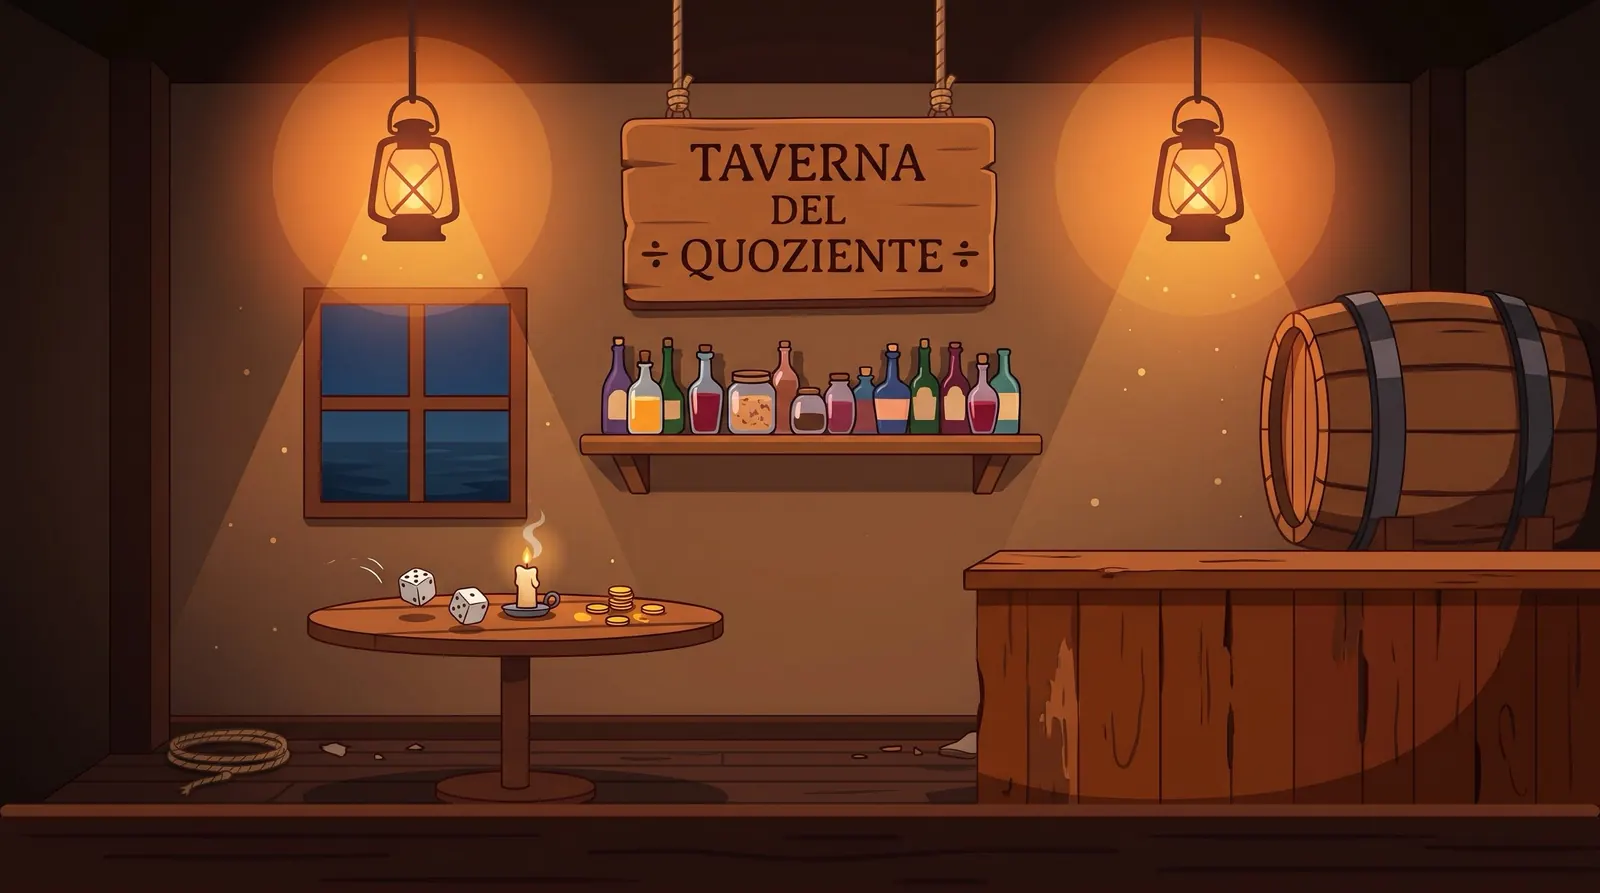
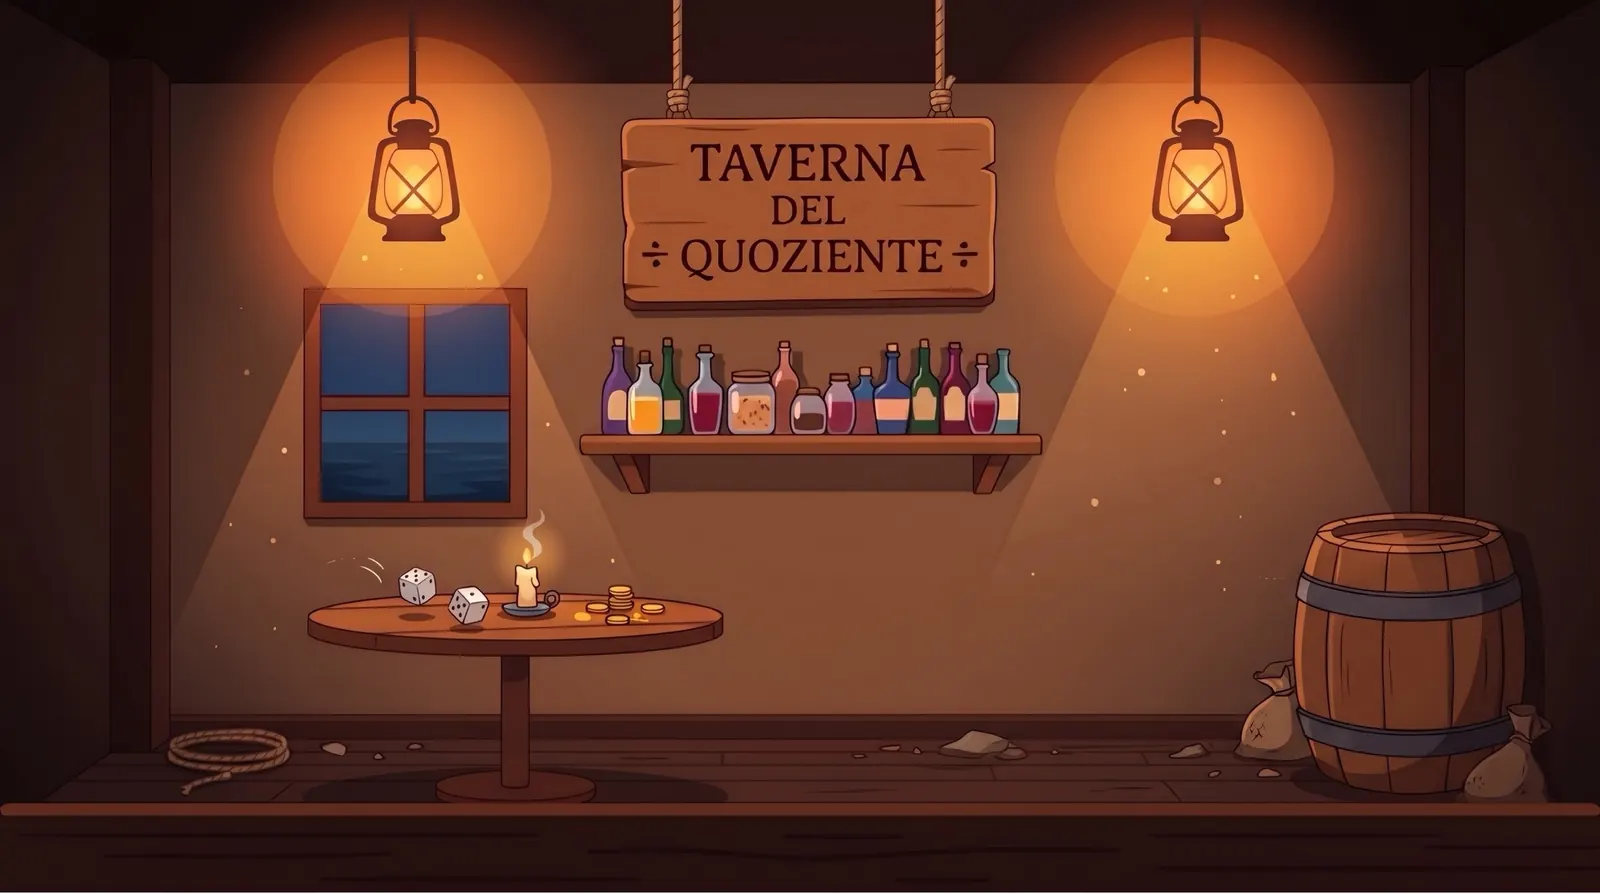
New tavern images; Vera and Barnaba stand on the ground
The street shows the open-door image once the key is used, and the
hall uses the new image without the counter, with the Oste, twins,
kegs and diary page placed on the open floor. Vera and Barnaba images
had leftover floor shadow under the feet, so they seemed to float;
the cut-out tool now crops at the last solid row.

Claude-Session: https://claude.ai/code/session_018EhJPoJraYHsQQnM3m2GZU

diff --git a/js/rooms2.js b/js/rooms2.js
@@ -213,15 +213,12 @@ function readQuestBoard() {
               removeItem('i1');
               setFlag('taverna_open');
               playSound('success');
+              // Sfondo con la porta aperta.
+              if ($('layer-bg')) $('layer-bg').innerHTML = SCENES.strada.bg();
               refreshLabels(A);
               ariaSays(['Clack! La chiave di Barnaba funziona. Si entra!', 'La chiave gira. Taverna, sto arrivando!']);
             }
           }
-        },
-        {
-          id: 'porta-aperta', box: [0, 0, 0, 0], noDot: true,
-          visible: () => flag('taverna_open'),
-          draw: () => `<rect x="143" y="88" width="40" height="84" fill="#ffcf5a" opacity="0.85"/><path d="M143 88 L133 92 L133 176 L143 172 Z" fill="#6b4022" ${wink(0.7)}/>`
         },
         {
           id: 'volantino', name: '📄 Volantino', box: [112, 116, 22, 28], stand: 123,
@@ -249,7 +246,7 @@ function readQuestBoard() {
       enter: ['La Taverna è piena di fumo e risate.', 'Qualcuno canta stonato in fondo alla sala.', 'Odore di frittelle e di guai.'],
       layout: {
         ...A.layout,
-        ariaStart: 255,
+        ariaStart: 332,
         mentor: { ...A.layout.mentor, look: ['L’Oste Bartolomeo. Ha i baffi più curati dell’isola.', 'Lucida i boccali con un’energia incredibile.'] },
         guardian: {
           ...A.layout.guardian,
@@ -270,8 +267,8 @@ function readQuestBoard() {
       },
       hotspots: [
         {
-          id: 'botti', name: '🛢 Tre botticelle', box: [58, 166, 62, 26], stand: 89,
-          draw: () => ['A', 'B', 'C'].map((l, i) => objImg('botte', 72 + i * 20, 192, 19) + objText(l, 72 + i * 20, 186, 7, '#fef3c7')).join(''),
+          id: 'botti', name: '🛢 Tre botticelle', box: [52, 164, 62, 26], stand: 83,
+          draw: () => ['A', 'B', 'C'].map((l, i) => objImg('botte', 63 + i * 20, 190, 19) + objText(l, 63 + i * 20, 184, 7, '#fef3c7')).join(''),
           look: () => `Tre botticelle con delle scritte: ${P_botti().kegs.map(k => `${k.l} = 3${toSup(k.m)} : 3${toSup(k.n)}`).join(', ')}.`,
           useIf: () => !flag('dadi_ok') && !hasItem('dadi'),
           use: () => {
@@ -299,13 +296,13 @@ function readQuestBoard() {
           take: () => collectPiece('boccali', 'mug2', ['Un boccale dell’Oste! Gli altri due sono in giro per l’isola.', 'Boccale numero uno. Pare che Archimede e Madame Zeri ne abbiano presi in prestito altri...'])
         },
         {
-          id: 'diario2', name: '📓 Un foglio viola', box: [139, 184, 22, 14], stand: 150,
+          id: 'diario2', name: '📓 Un foglio viola', box: [240, 186, 18, 14], stand: 249,
           visible: () => !flag('dia2'),
-          draw: () => diaryPageSVG(150, 191),
+          draw: () => diaryPageSVG(249, 193),
           read: () => readDiary(2),
           look: 'Un foglio viola sul bancone. Profuma di profumo costoso.'
         },
-        laviniaHotspot(A, 'lav1', 140, 186)
+        laviniaHotspot(A, 'lav1', 222, 194)
       ],
       exits: [
         { id: 'to-strada', label: '🚪 Esci', box: [0, 112, 52, 60], stand: 22, to: 'strada', arrive: 238, labelY: 104 }

diff --git a/js/characters.js b/js/characters.js
@@ -50,8 +50,8 @@ function ariaHatSVG(hat) {
    -------------------------------------------------------------------------- */
 const CHAR_IMG = {
   aria: { w: 382, px: 640, h: 57, eyes: [[232, 147], [280, 147]], eyeR: 13, lid: '#f8c09b', mouth: [263, 196], mouthW: 16, mouthH: 7, head: [228, 125, 240] },
-  vera: { w: 387, px: 640, h: 67, eyes: [[237, 132]], eyeR: 12, lid: '#f5c4a6', mouth: [250, 168], mouthW: 13, mouthH: 6, head: [215, 120, 230] },
-  barnaba: { w: 385, px: 640, h: 82, eyes: [], mouth: [247, 122], mouthW: 20, mouthH: 7, head: [225, 85, 210] },
+  vera: { w: 387, px: 588, h: 61.6, eyes: [[237, 132]], eyeR: 12, lid: '#f5c4a6', mouth: [250, 168], mouthW: 13, mouthH: 6, head: [215, 120, 230] },
+  barnaba: { w: 385, px: 592, h: 75.8, eyes: [], mouth: [247, 122], mouthW: 20, mouthH: 7, head: [225, 85, 210] },
   lavinia: { w: 241, px: 640, h: 65, eyes: [[163, 148], [207, 148]], eyeR: 11, lid: '#fbd3b7', mouth: [184, 190], mouthW: 18, mouthH: 6, head: [150, 125, 220] },
   turbina: { w: 318, px: 640, h: 72, eyes: [], mouth: [240, 257], mouthW: 18, mouthH: 6, head: [180, 170, 270] },
   oste: { w: 432, px: 640, h: 61, eyes: [[188, 86], [238, 84]], eyeR: 9, lid: '#f2c4a2', mouth: [229, 128], mouthW: 18, mouthH: 8, head: [212, 95, 190] },

diff --git a/js/data.js b/js/data.js
@@ -124,10 +124,10 @@ const AREAS = [
     maxHp: 3,
     scene: 'taverna',
     layout: {
-      groundY: 186,
-      ariaStart: 190,
-      mentor: { x: 318, draw: 'oste', stand: 286, label: '🍺 Oste Bartolomeo' },
-      guardian: { x: 190, draw: 'gemelli', face: -1, stand: 228, label: '🎲 Pirati Gemelli' }
+      groundY: 194,
+      ariaStart: 332,
+      mentor: { x: 286, draw: 'oste', stand: 322, label: '🍺 Oste Bartolomeo' },
+      guardian: { x: 176, draw: 'gemelli', face: -1, stand: 212, label: '🎲 Pirati Gemelli' }
     },
     crystal: { id: 'c2', name: 'Cristallo Ciano', icon: '🔵', desc: 'Brilla della luce fredda della sottrazione.' },
     item: { id: 'i2', name: 'Cannocchiale Ottico', icon: '🔭', desc: 'Vinto ai dadi contro i Pirati Gemelli.' },

diff --git a/js/scenes.js b/js/scenes.js
@@ -74,7 +74,9 @@ const IMAGE_SCENES = {
   /* Taverna: strada davanti alla Taverna */
   strada: {
     bg() {
-      return `${bgImage('strada')}
+      // Dopo il codice la porta della Taverna è aperta (seconda immagine).
+      const open = typeof state !== 'undefined' && state.flags.taverna_open;
+      return `${bgImage(open ? 'strada-aperta' : 'strada')}
       ${twinkleSVG([[16, 30], [40, 64, 0.7], [92, 52], [356, 40], [384, 64, 0.7], [362, 14]])}
       ${glowSVG('gl-st1', 127, 88, 18)}${glowSVG('gl-st2', 284, 86, 24, '#ffb347', 1.3)}`;
     }

diff --git a/sw.js b/sw.js
@@ -4,7 +4,7 @@
    aggiorna la copia; offline usa la copia salvata sul dispositivo.
    Cambia CACHE quando cambia l'elenco dei file.
    ========================================================================== */
-const CACHE = 'esponentia-v11';
+const CACHE = 'esponentia-v12';
 const FILES = [
   './',
   'index.html',
@@ -24,6 +24,7 @@ const FILES = [
   'img/bg/spiaggia.webp',
   'img/bg/capanno.webp',
   'img/bg/strada.webp',
+  'img/bg/strada-aperta.webp',
   'img/bg/taverna.webp',
   'img/bg/torre.webp',
   'img/bg/belvedere.webp',

diff --git a/tools/scontorna.py b/tools/scontorna.py
@@ -56,7 +56,11 @@ def maschera(src, aloni=False):
 def riquadro(img, pad=6):
     a = np.asarray(img)[..., 3]
     ys, xs = np.where(a > 12)
-    return (max(xs.min() - pad, 0), max(ys.min() - pad, 0), min(xs.max() + pad, img.width), ys.max() + 1)
+    # In basso si taglia sull'ultima riga davvero piena: i resti dell'ombra a terra
+    # (semitrasparenti) farebbero "galleggiare" il personaggio.
+    full = np.where((a > 200).sum(1) > 3)[0]
+    bottom = full.max() + 2 if len(full) else ys.max() + 1
+    return (max(xs.min() - pad, 0), max(ys.min() - pad, 0), min(xs.max() + pad, img.width), min(bottom, img.height))
 
 
 def scontorna(srcs, dsts, height=640):
